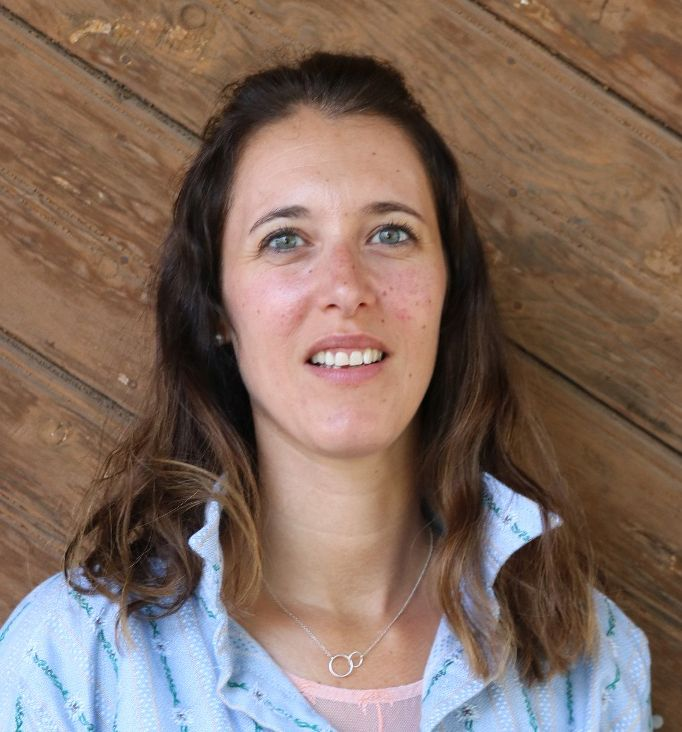
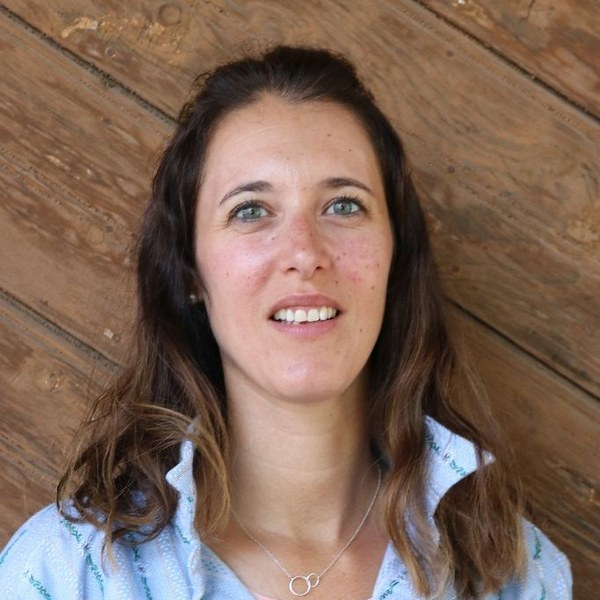
Vorstandsfotos: einheitlich quadratisch, Gesichter mittig (Leon vollständig)
Claude-Session: https://claude.ai/code/session_01V1Z84hDFudQ4st1zW9TzYW

diff --git a/index.html b/index.html
@@ -57,15 +57,15 @@
     <section class="rental"><div class="section-wrap rental-grid"><div><p class="eyebrow">Räume im Melihus</p><h2>Ein besonderer Ort<br>für Ihren Anlass.</h2></div><div><p>Die Räumlichkeiten des Dorfmuseums können gemietet werden: für private Führungen, Geburtstagsapéros oder Brunch, Anlässe mit Kundinnen, Kunden und Mitarbeitenden oder eine Trauung in der rustikalen Scheune.</p><p>Auch Buchlesungen, Vorträge, Chorauftritte, Theaterstücke und Kunstausstellungen sind willkommen. Der Verein freut sich über Ihre Idee.</p><div class="rental-actions"><a class="button button-gold" href="mailto:info@melihus.ch?subject=Anfrage%20Vermietung%20Melihus">Anlass anfragen <span aria-hidden="true">↗</span></a><a class="inline-arrow" href="assets/melihus-mieten-preise.pdf" target="_blank" rel="noopener">Preisinformationen (PDF) <span aria-hidden="true">↗</span></a></div></div></div></section>
 
     <section class="team section-wrap" aria-labelledby="team-title"><div class="section-heading"><div><p class="eyebrow">Menschen hinter dem Museum</p><h2 id="team-title">Unser Vorstand</h2></div><p>Kontakt zum Co-Präsidium: Sybille Guarnieri und Cécile Perrig sind über <a href="mailto:info@melihus.ch">info@melihus.ch</a> erreichbar.</p></div><ul class="member-grid">
-      <li class="member-card"><img src="assets/board-cecile-perrig-ansermet.jpg" alt="Cécile Perrig-Ansermet" loading="lazy" width="682" height="732"><span>Cécile Perrig-Ansermet</span></li>
-      <li class="member-card"><img src="assets/board-christian-mueller.jpg" alt="Christian Müller" loading="lazy" width="651" height="678"><span>Christian Müller</span></li>
-      <li class="member-card"><img src="assets/board-beat-waldmeier.jpg" alt="Beat Waldmeier" loading="lazy" width="658" height="767"><span>Beat Waldmeier</span></li>
-      <li class="member-card"><img src="assets/board-melanie-cuppuleri.jpg" alt="Melanie Cuppuleri" loading="lazy" width="818" height="1024"><span>Melanie Cuppuleri</span></li>
-      <li class="member-card"><img src="assets/board-iva-fromm.jpg" alt="Iva Fromm" loading="lazy" width="741" height="1024"><span>Iva Fromm</span></li>
-      <li class="member-card"><img src="assets/board-gerd-fromm.jpg" alt="Gerd Fromm" loading="lazy" width="800" height="1024"><span>Gerd Fromm</span></li>
-      <li class="member-card"><img src="assets/board-sybille-guarnieri.jpg" alt="Sybille Guarnieri" loading="lazy" width="738" height="763"><span>Sybille Guarnieri</span></li>
-      <li class="member-card"><img src="assets/board-leon-kym.jpg" alt="Leon Kym" loading="lazy" width="1015" height="1024"><span>Leon Kym</span></li>
-      <li class="member-card"><img src="assets/board-patricia-godena.jpg" alt="Patricia Godena" loading="lazy" width="766" height="771"><span>Patricia Godena</span></li>
+      <li class="member-card"><img src="assets/board-cecile-perrig-ansermet.jpg" alt="Cécile Perrig-Ansermet" loading="lazy" width="600" height="600"><span>Cécile Perrig-Ansermet</span></li>
+      <li class="member-card"><img src="assets/board-christian-mueller.jpg" alt="Christian Müller" loading="lazy" width="600" height="600"><span>Christian Müller</span></li>
+      <li class="member-card"><img src="assets/board-beat-waldmeier.jpg" alt="Beat Waldmeier" loading="lazy" width="600" height="600"><span>Beat Waldmeier</span></li>
+      <li class="member-card"><img src="assets/board-melanie-cuppuleri.jpg" alt="Melanie Cuppuleri" loading="lazy" width="600" height="600"><span>Melanie Cuppuleri</span></li>
+      <li class="member-card"><img src="assets/board-iva-fromm.jpg" alt="Iva Fromm" loading="lazy" width="600" height="600"><span>Iva Fromm</span></li>
+      <li class="member-card"><img src="assets/board-gerd-fromm.jpg" alt="Gerd Fromm" loading="lazy" width="600" height="600"><span>Gerd Fromm</span></li>
+      <li class="member-card"><img src="assets/board-sybille-guarnieri.jpg" alt="Sybille Guarnieri" loading="lazy" width="600" height="600"><span>Sybille Guarnieri</span></li>
+      <li class="member-card"><img src="assets/board-leon-kym.jpg" alt="Leon Kym" loading="lazy" width="600" height="600"><span>Leon Kym</span></li>
+      <li class="member-card"><img src="assets/board-patricia-godena.jpg" alt="Patricia Godena" loading="lazy" width="600" height="600"><span>Patricia Godena</span></li>
     </ul></section>
 
     <section class="publications" id="publikationen"><div class="section-wrap"><div class="section-heading"><div><p class="eyebrow">Aus dem Museum</p><h2>Bücher & Erinnerungen</h2></div><p>Publikationen können über den Verein angefragt werden. Das Jubiläumsbuch ist auch im Museum und im Gemeindehaus Möhlin erhältlich.</p></div><div class="product-grid"><article class="product-card"><img src="assets/buch-witt-oder-witt-it.jpg" alt="Buchcover Meli-Ryburg – Witt oder witt it?" loading="lazy" width="1539" height="2047"><div><h3>Witt oder witt it?</h3><p>Das Jubiläumsbuch erzählt mit Erinnerungen und Bildern von der Dorfentstehung, Dorfanlässen und der früheren Wasserversorgung.</p><span>CHF 20.– · bei Postversand zzgl. Porto & Verpackung</span></div></article><article class="product-card"><img src="assets/buch-melihus.jpg" alt="Broschüre Dorfmuseum Melihus – Ein Begleiter durch Ausstellung und Geschichte" loading="lazy" width="2048" height="1687"><div><h3>Dorfmuseum Melihus</h3><p>Ein Begleiter durch Ausstellung und Geschichte.</p></div></article><article class="product-card"><img src="assets/karten-melihus.jpg" alt="Bildkarten des Melihus" loading="lazy" width="2048" height="1310"><div><h3>Melihus-Bildkarten</h3><p>Ansichten des historischen Dorfmuseums.</p></div></article></div><a class="button button-outline" href="mailto:info@melihus.ch?subject=Anfrage%20Publikationen%20Melihus">Publikation anfragen <span aria-hidden="true">↗</span></a></div></section>

diff --git a/styles.css b/styles.css
@@ -8,7 +8,7 @@
 /* Vorstandsporträts */
 .member-grid{padding:0;margin:0;list-style:none;display:grid;grid-template-columns:repeat(3,minmax(0,1fr));gap:22px}
 .member-card{min-width:0;background:#f2f3ee}
-.member-card img{width:100%;aspect-ratio:4/3;object-fit:cover;object-position:center 38%;background:#e4e6df}
+.member-card img{width:100%;aspect-ratio:4/3;object-fit:cover;object-position:center;background:#e4e6df}
 .member-card span{display:block;padding:17px 19px 20px;font-family:Georgia,'Times New Roman',serif;font-size:1.15rem;line-height:1.3}
 @media(max-width:760px){.member-grid{grid-template-columns:repeat(2,minmax(0,1fr));gap:14px}.member-card span{font-size:1.05rem;padding:14px}}
 @media(max-width:520px){.member-grid{grid-template-columns:1fr}.member-card{display:grid;grid-template-columns:112px 1fr;align-items:center}.member-card img{height:112px;aspect-ratio:auto;object-fit:cover}.member-card span{font-size:1.08rem;padding:16px}}
